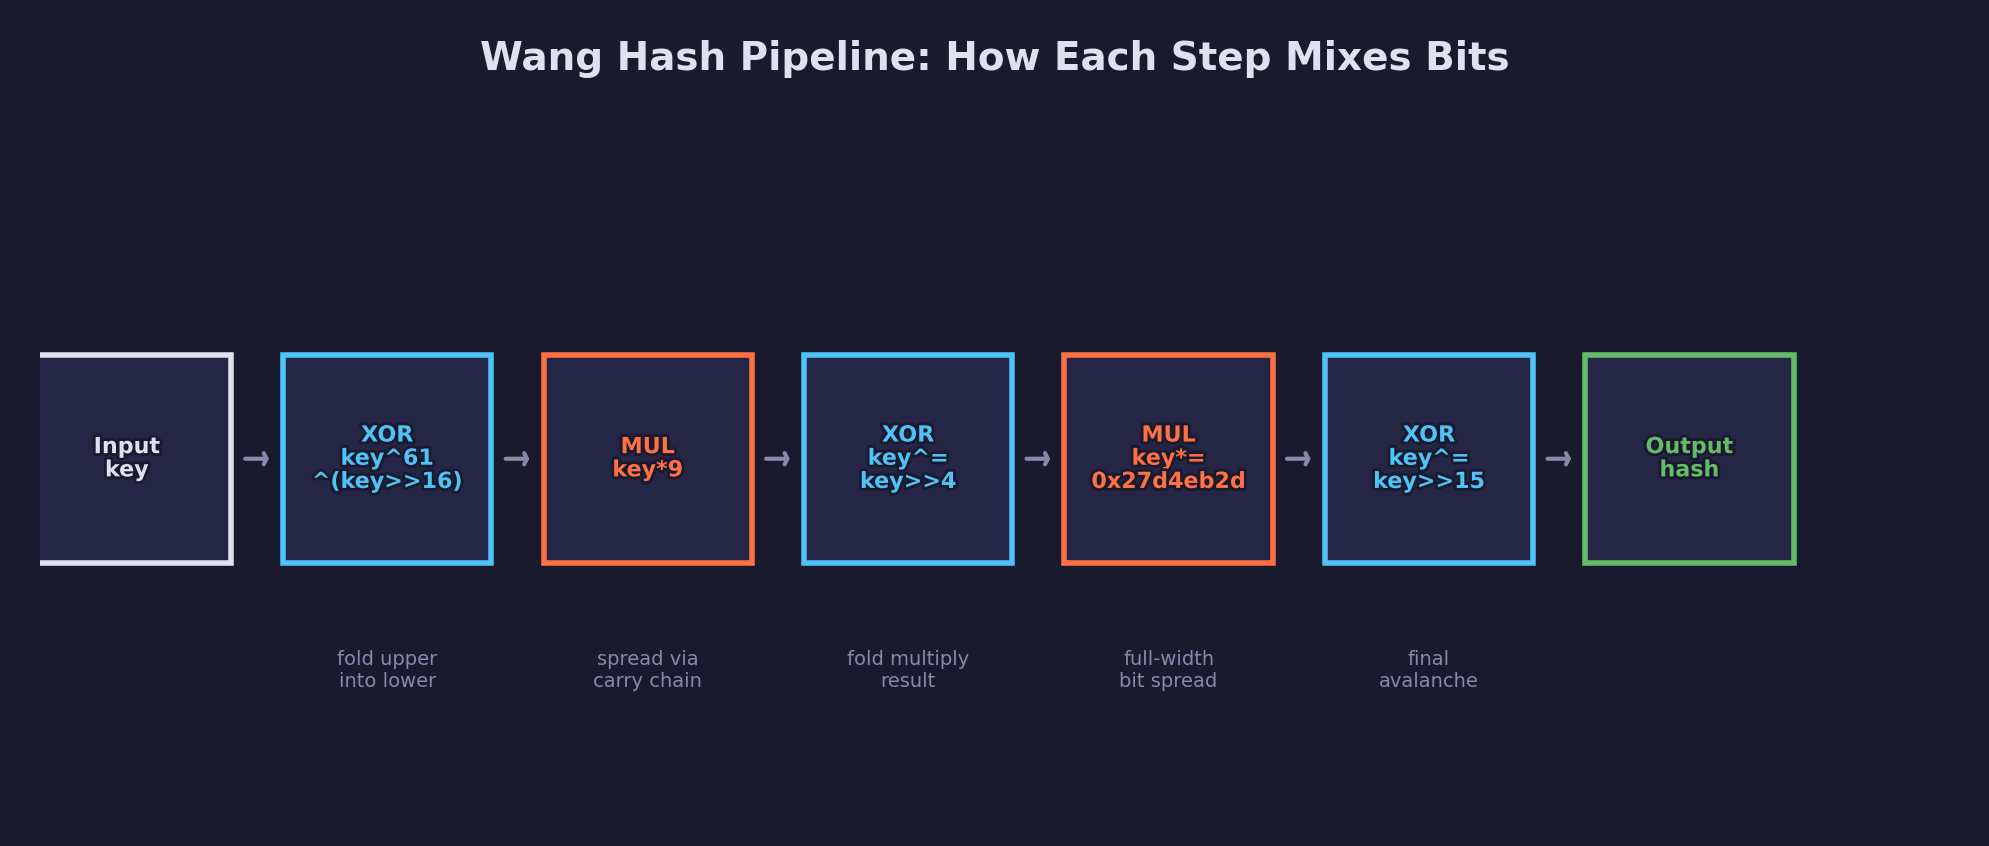
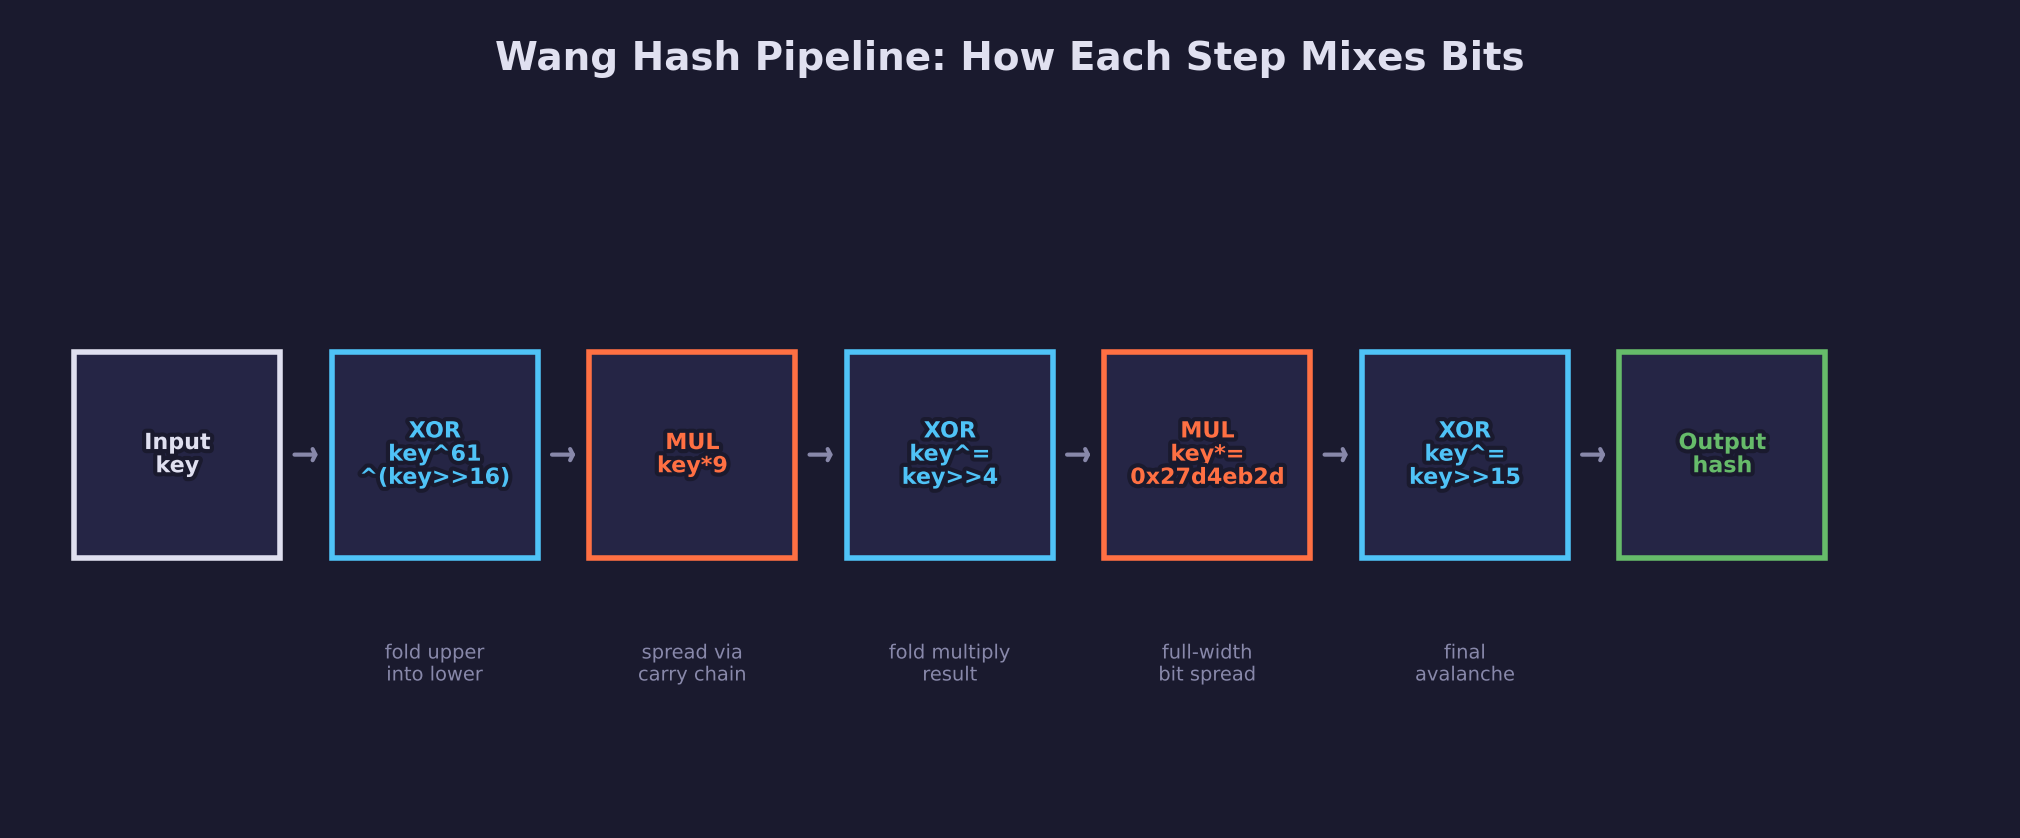
Fix hash pipeline diagram: restore clipped left border and align with guidelines (#148)
The leftmost box border was clipped because xlim started at -0.5 while the
box edge was at -0.6. Widened xlim to -0.8, switched to setup_axes() helper,
added path_effects stroke to purpose labels, and fixed stroke linewidth to 3
per create-diagram skill guidelines.

https://claude.ai/code/session_016jvPhGUitB8dpdSia3qgqV

diff --git a/scripts/forge_diagrams/math_diagrams.py b/scripts/forge_diagrams/math_diagrams.py
@@ -2623,10 +2623,7 @@ def diagram_hash_pipeline():
     """Visual flow of the Wang hash pipeline showing each mixing step."""
     fig = plt.figure(figsize=(10, 4), facecolor=STYLE["bg"])
     ax = fig.add_subplot(111)
-    ax.set_facecolor(STYLE["bg"])
-    ax.set_xlim(-0.5, 10.5)
-    ax.set_ylim(-1.5, 2.5)
-    ax.set_aspect("equal")
+    setup_axes(ax, xlim=(-0.8, 10.5), ylim=(-1.5, 2.5), grid=False)
     ax.axis("off")
 
     steps = [
@@ -2665,7 +2662,7 @@ def diagram_hash_pipeline():
             ha="center",
             va="center",
             zorder=3,
-            path_effects=[pe.withStroke(linewidth=2, foreground=STYLE["bg"])],
+            path_effects=[pe.withStroke(linewidth=3, foreground=STYLE["bg"])],
         )
 
         # Arrow to next step
@@ -2702,6 +2699,7 @@ def diagram_hash_pipeline():
                 fontsize=7,
                 ha="center",
                 va="top",
+                path_effects=[pe.withStroke(linewidth=3, foreground=STYLE["bg"])],
             )
 
     ax.set_title(
